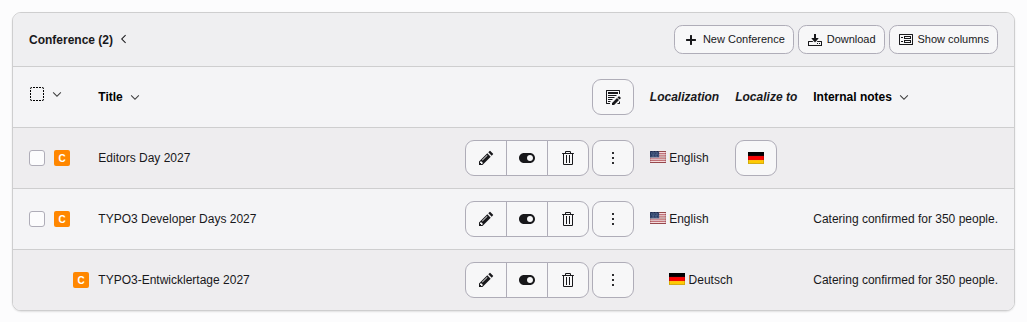
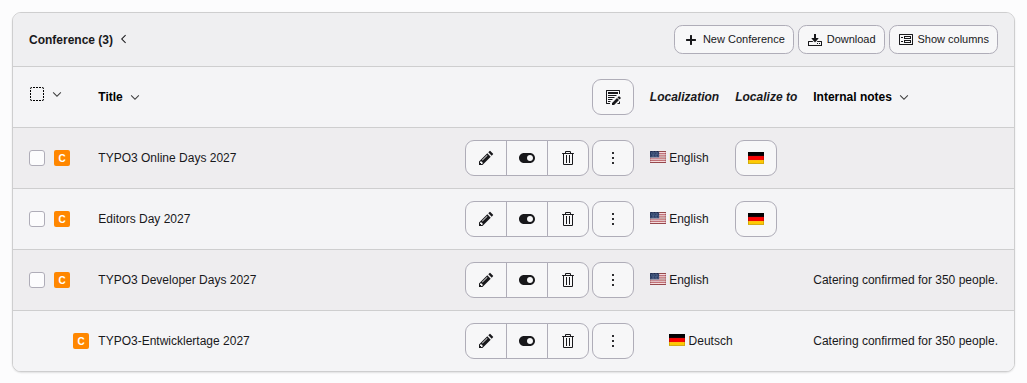
[Backport 14.3] [TASK] Show a type from a related record with the conference extension (#1661)
The example of a type from a related record used a table of the
styleguide extension. Its screenshot was the last automatic screenshot,
and its snippets came from the generator for the styleguide.

A partnership of the conference extension now takes its type from the
format of the partner conference. An online partner conference shares
its live stream instead of a discount. A third conference, which is
online, shows both types side by side in the screenshot.

On 14.3, make screenshots takes the screenshots from TYPO3 14.3. The
screenshot of the field wizard counts the references of the new
partnership.

Releases: main, 14.3
Assisted-by: Claude Opus 5.5 <noreply@anthropic.com>
(cherry picked from commit 225908211d777d0602374623bfd1b26d746d6f65)

diff --git a/Build/Screenshots/create-records.php b/Build/Screenshots/create-records.php
@@ -214,6 +214,7 @@ $data['tx_myextension_hotel'] = [
 ];
 $data['tx_myextension_partnership'] = [
     'NEWpartnership' => ['pid' => $pid, 'partner' => 'NEWconfeditors', 'discount' => 20],
+    'NEWpartnershiponline' => ['pid' => $pid, 'partner' => 'NEWconfonline', 'shared_livestream' => 1],
 ];
 $data['tx_myextension_comment'] = [
     'NEWcomment' => [
@@ -246,7 +247,7 @@ $data['tx_myextension_conference'] = [
         'comments' => 'NEWcomment', 'logo' => 'NEWimglogo',
         'registrations' => 'NEWregchris,NEWregsam', 'waiting_list' => 'NEWregrobin',
         'hotels' => 'NEWhotelfair,NEWhotelriver', 'content_elements' => 'NEWgettingthere',
-        'partners' => 'NEWpartnership',
+        'partners' => 'NEWpartnership,NEWpartnershiponline',
     ],
     'NEWconfeditors' => [
         'pid' => $pid, 'title' => 'Editors Day 2027',
@@ -254,6 +255,12 @@ $data['tx_myextension_conference'] = [
         'event_format' => 'onsite',
         'seats' => 120, 'contact_email' => 'editors@example.org', 'color' => '#2f99a4',
         'speakers' => 'NEWspada',
+    ],
+    'NEWconfonline' => [
+        'pid' => $pid, 'title' => 'TYPO3 Online Days 2027',
+        'conference_date' => strtotime('2027-11-17'), 'published' => 0,
+        'event_format' => 'online', 'stream_url' => 'https://example.org/online',
+        'contact_email' => 'online@example.org', 'color' => '#6c4ef5',
     ],
 ];
 $data['sys_file_reference'] = [

diff --git a/Documentation/CodeSnippets/my_extension/Configuration/TCA/Overrides/910-tx_myextension_partnership-type.php b/Documentation/CodeSnippets/my_extension/Configuration/TCA/Overrides/910-tx_myextension_partnership-type.php
@@ -1,0 +1,29 @@
+<?php
+
+use TYPO3\CMS\Core\Utility\ExtensionManagementUtility;
+
+defined('TYPO3') or die();
+
+// The type of a partnership is the format of the partner conference:
+// the field "partner" points to the conference, and its field
+// "event_format" holds the type
+$GLOBALS['TCA']['tx_myextension_partnership']['ctrl']['type'] = 'partner:event_format';
+
+// Another partner conference can have another format
+$GLOBALS['TCA']['tx_myextension_partnership']['columns']['partner']['onChange'] = 'reload';
+
+ExtensionManagementUtility::addTCAcolumns('tx_myextension_partnership', [
+  'shared_livestream' => [
+    'label' => 'my_extension.db:partnership.shared_livestream',
+    'config' => [
+      'type' => 'check',
+      'renderType' => 'checkboxToggle',
+    ],
+  ],
+]);
+
+// An online partner conference shares its live stream instead of a
+// discount. On-site and hybrid partner conferences fall back to type 0.
+$GLOBALS['TCA']['tx_myextension_partnership']['types']['online'] = [
+  'showitem' => 'conference, partner, shared_livestream',
+];

diff --git a/Documentation/codesnippets.php b/Documentation/codesnippets.php
@@ -17,17 +17,4 @@ return [
     'targetFileName' => 'CodeSnippets/TtContentCtrl.rst.txt',
   ],
 
-  [
-    'action' => 'createPhpArrayCodeSnippet',
-    'sourceFile' => 'EXT:styleguide/Configuration/TCA/tx_styleguide_typeforeign.php',
-    'fields' => ['columns/foreign_table'],
-    'targetFileName' => 'CodeSnippets/TypeForeignForeignTable.rst.txt',
-  ],
-  [
-    'action' => 'createPhpArrayCodeSnippet',
-    'sourceFile' => 'EXT:styleguide/Configuration/TCA/tx_styleguide_typeforeign.php',
-    'fields' => ['ctrl'],
-    'targetFileName' => 'CodeSnippets/TypeForeignTableCtrl.rst.txt',
-  ],
-
 ];
